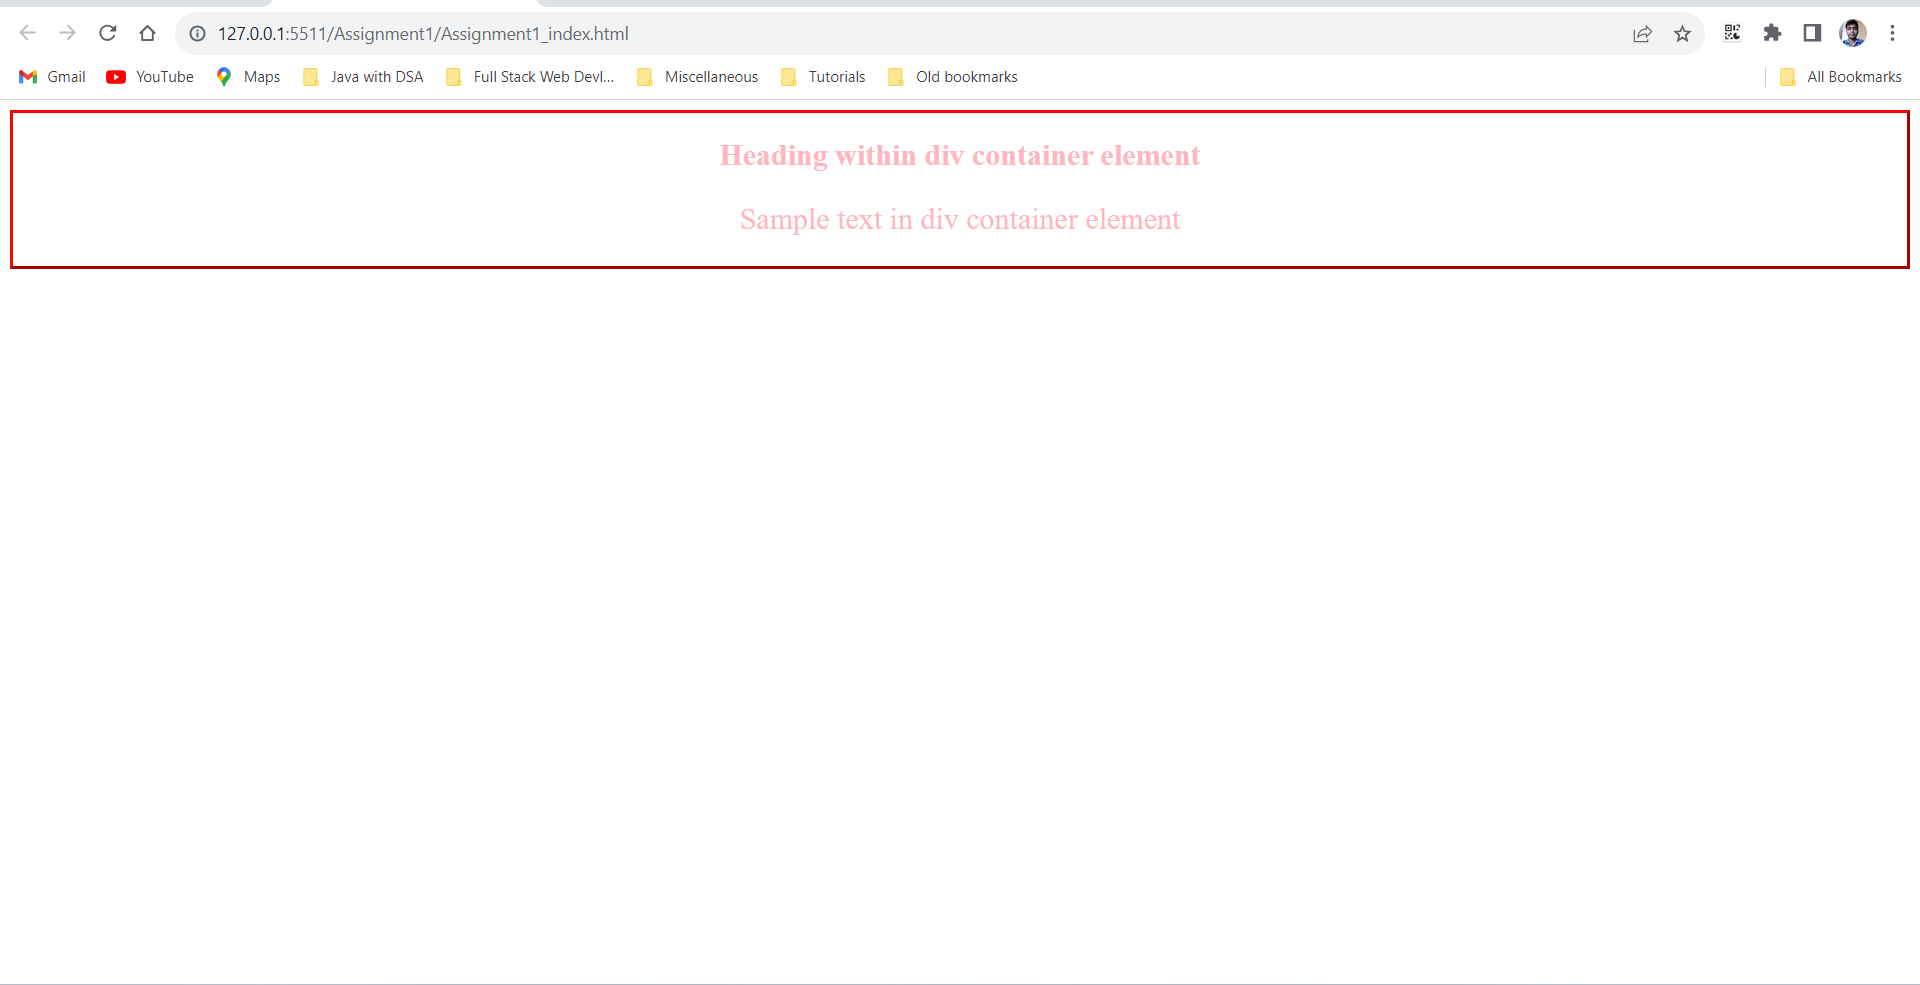
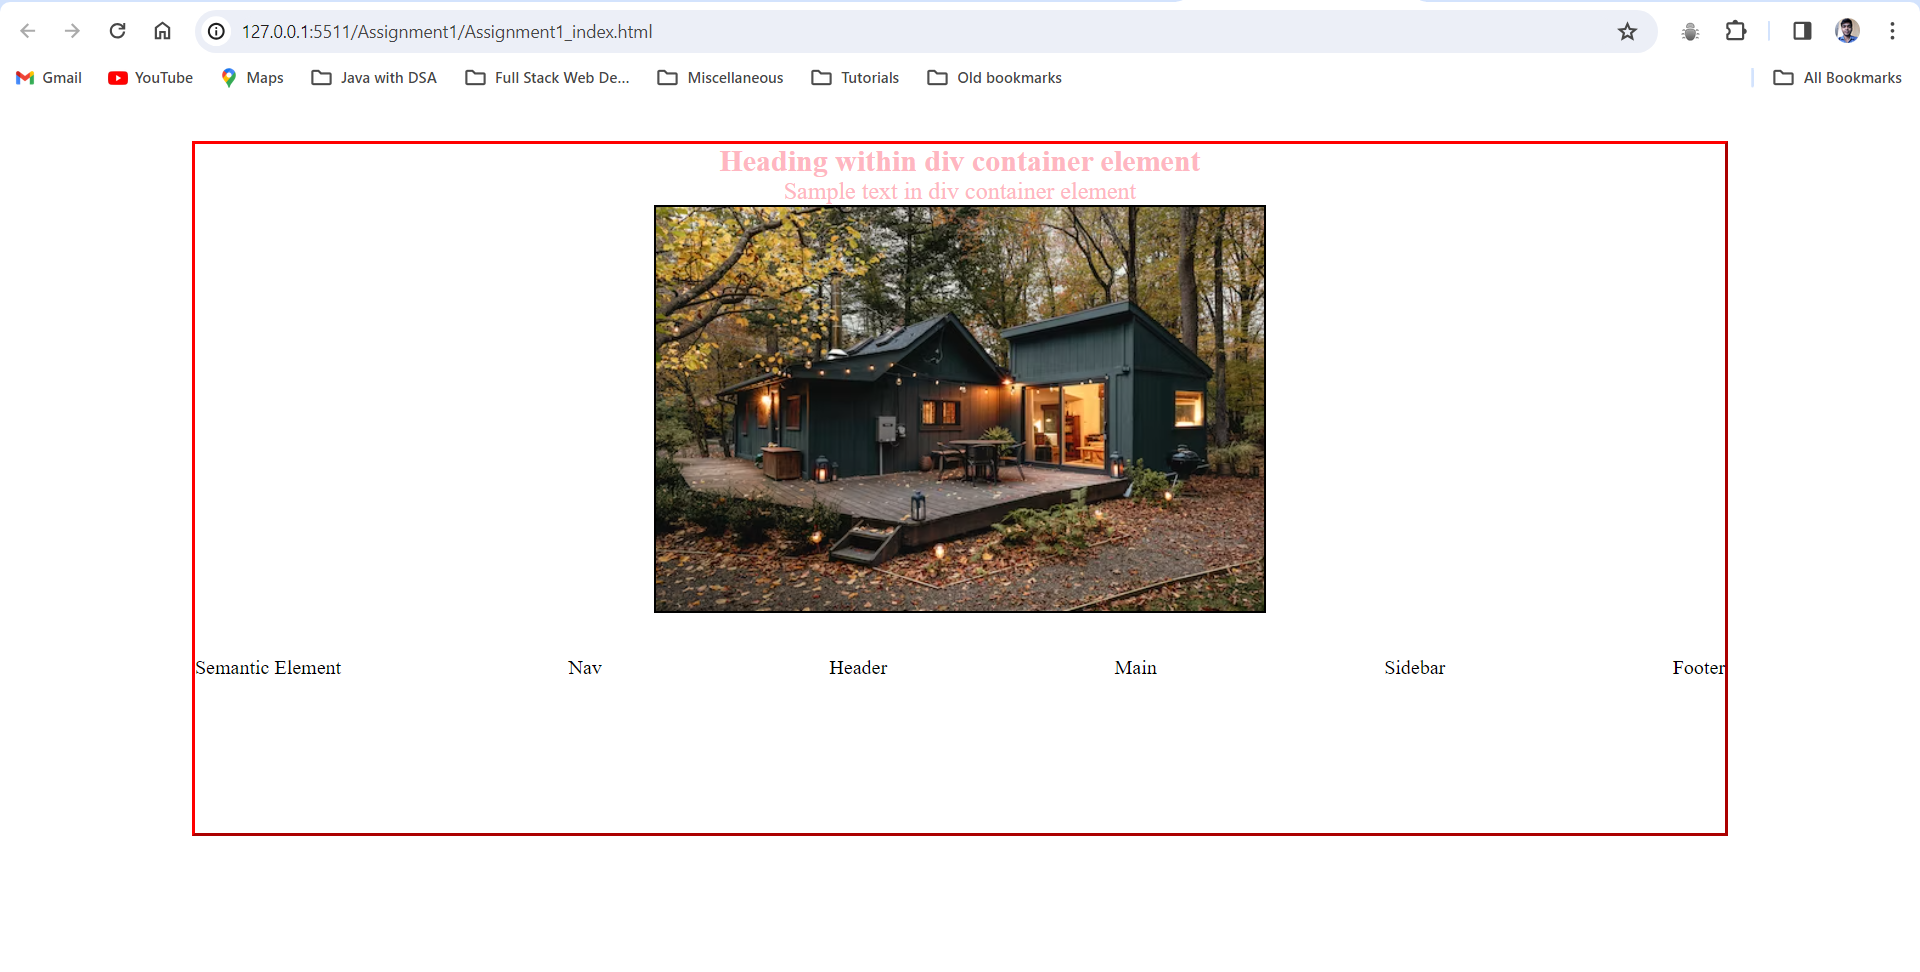
ch_1.2

diff --git a/Assignment1/Assignment1_index.html b/Assignment1/Assignment1_index.html
@@ -10,6 +10,9 @@
 
     <!-- internal styling -->
     <style>
+      div{
+        height: 80vh;
+      }
         .container{
             border: 3px solid black; 
             color: maroon;
@@ -17,6 +20,14 @@
         }
         .container p{
             font-size: 1.5em;
+        }
+        .container img{
+          width: 40%;
+          margin-bottom: 30px;
+        }
+        #caption{
+          color: black;
+          text-align: center;
         }
     </style>
   </head>
@@ -32,6 +43,16 @@
     >
       <h2>Heading within div container element</h2>
       <p>Sample text in div container element</p>
+      <img style="border: 2px solid black;" src="https://images.unsplash.com/photo-1697807650304-907257330a3e?auto=format&fit=crop&q=60&w=500&ixlib=rb-4.0.3&ixid=M3wxMjA3fDB8MHxlZGl0b3JpYWwtZmVlZHwxOXx8fGVufDB8fHx8fA%3D%3D" alt="forest_house_image">
+      <span id="caption">Farm House in Forest</span>
+      <li style="list-style: none;" class="list-items">
+        <ul>Semantic Element</ul>
+        <ul>Nav</ul>
+        <ul>Header</ul>
+        <ul>Main</ul>
+        <ul>Sidebar</ul>
+        <ul>Footer</ul>
+      </li>
     </div>
   </body>
 </html>

diff --git a/Assignment1/style.css b/Assignment1/style.css
@@ -1,7 +1,26 @@
+*{
+    margin: 0;
+    padding: 0;
+    box-sizing: border-box;
+}
+
 .container{
     border: 3px dashed black; 
     text-align: center;
+    margin: 30px auto;
+    width: 80%;
 }
 .container p{
-    font-size: 1.5em;
+    font-size: 1.2em;
+}
+
+#caption{
+    font-size: 18px;
+    display: none;
+}
+
+.list-items{
+    color: black;
+    display: flex;
+    justify-content: space-between;
 }
